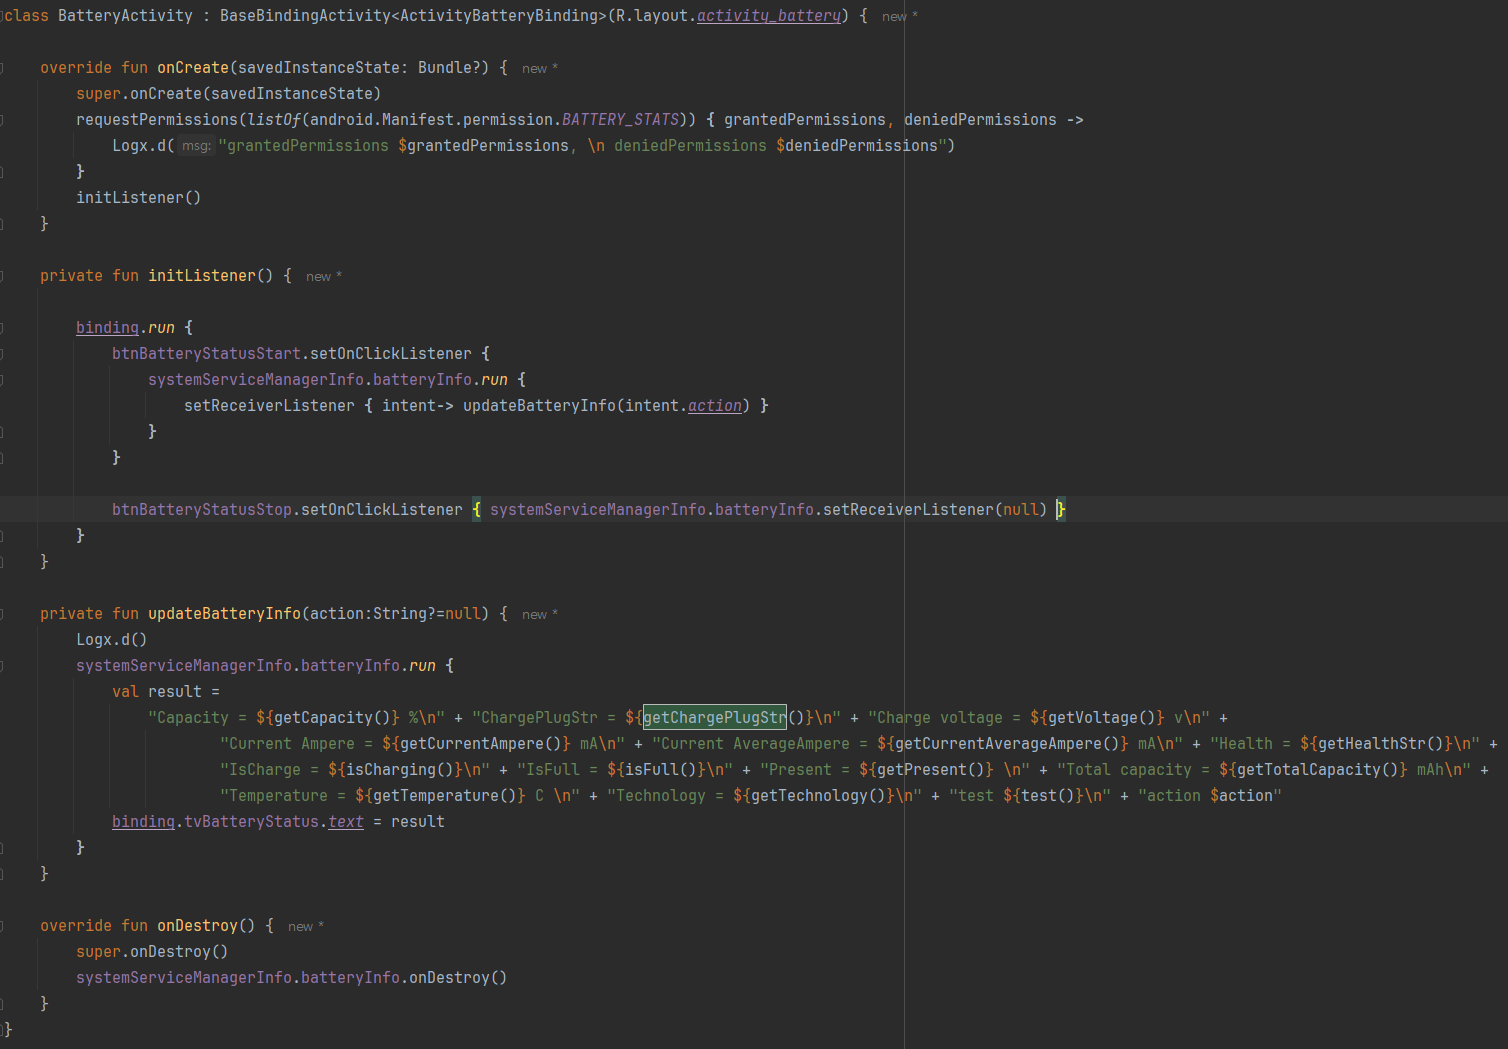
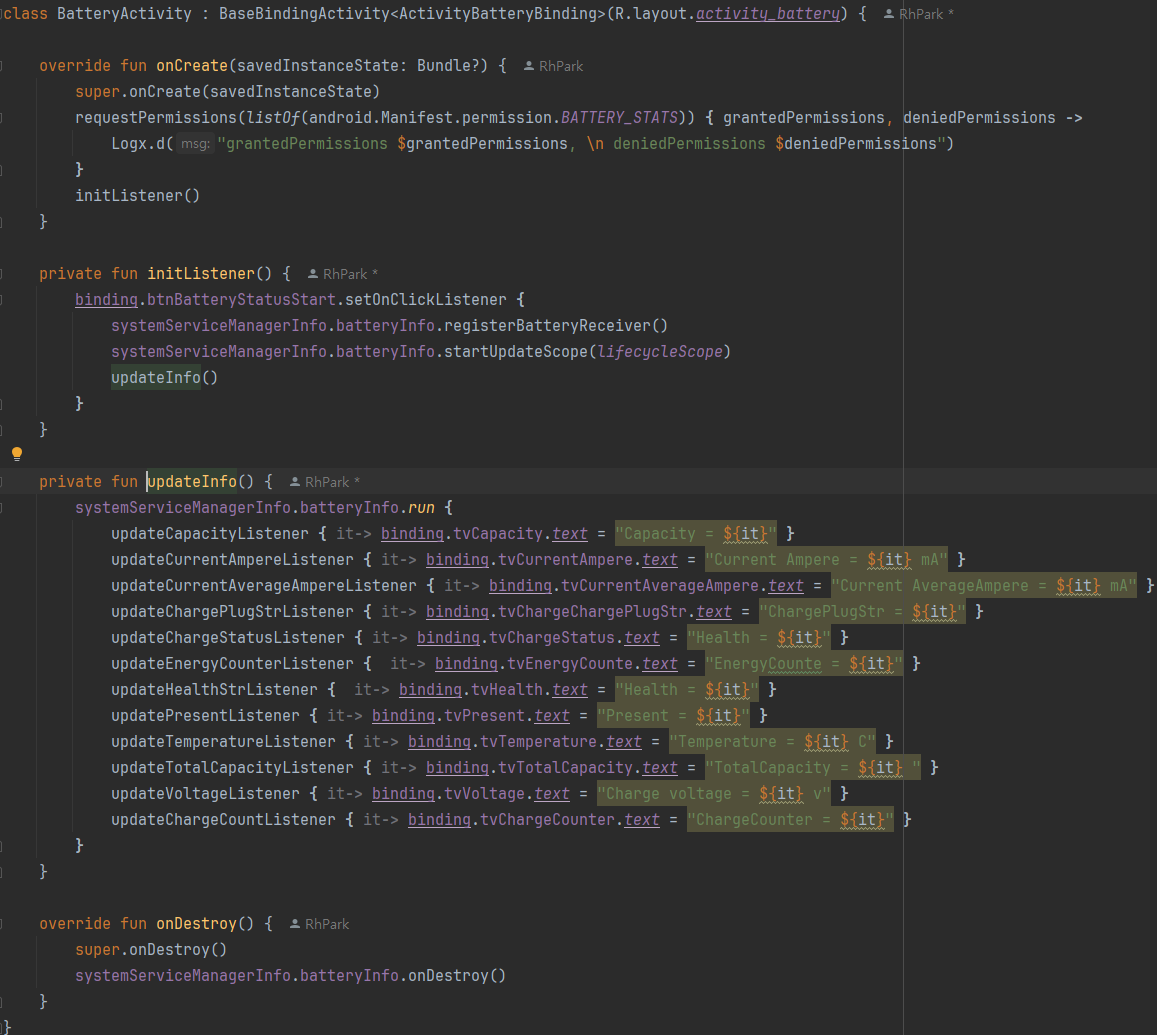
version   "0.5.1" -> "0.5.2"
Bug
 Edit
  1.

 Remove
  1.

New

 Add
  1.BatteryStateInfo의 update...Listener{} 추가

 Edit
  1.

 Remove
  1.

 Remains
  2. WindowManagerController 50%

diff --git a/library/src/main/java/kr/open/rhpark/library/system/service/access/battery/BatteryStateInfo.kt b/library/src/main/java/kr/open/rhpark/library/system/service/access/battery/BatteryStateInfo.kt
@@ -1,4 +1,4 @@
-package kr.open.rhpark.library.system.service.access
+package kr.open.rhpark.library.system.service.access.battery
 
 import android.content.BroadcastReceiver
 import android.content.Context
@@ -8,6 +8,11 @@ import android.content.IntentFilter
 import android.os.BatteryManager
 import android.os.Build
 import androidx.annotation.RequiresApi
+import kotlinx.coroutines.CoroutineScope
+import kotlinx.coroutines.Job
+import kotlinx.coroutines.delay
+import kotlinx.coroutines.isActive
+import kotlinx.coroutines.launch
 import kr.open.rhpark.library.system.service.base.BaseSystemService
 import kr.open.rhpark.library.system.service.access.power.PowerProfile
 import kr.open.rhpark.library.system.service.access.power.PowerProfileVO
@@ -15,6 +20,19 @@ import kr.open.rhpark.library.system.service.access.power.PowerProfileVO
 /**
  * Thisclass provides information about the battery state of an Android device.
  * BatteryStateInfo 클래스는 Android 기기의 배터리 상태 정보를 제공.
+ *
+ * It is recommended to call destroy() upon complete shutdown.
+ * 완전 종료 시 destroy()를 호출하는 것을 권장.
+ *
+ * to use update..Listener() method , you must update periodically to obtain a more accurate value.
+ * update..Listener()를 사용하기 위해선 반드시 주기적으로 업데이트를 해야 조금 더 정확 한 값을 가져 올 수 있다.
+ *
+ * ex)
+ * 1. startUpdate(coroutineScope: CoroutineScope) 사용
+ * 2. startUpdate()
+ *  . (Call startUpdate() periodically from outside)
+ *  . 외부에서 주기적으로 startUpdate() 호출
+ *
  *
  * @param context The application context
  * @param context 애플리케이션 컨텍스트.
@@ -29,46 +47,126 @@ public class BatteryStateInfo(
 
     private val UPDATE_BATTERY = "RHPARK_BATTERY_STATE_UPDATE"
 
-    private var batteryReceiverListener: ((intent: Intent) -> Unit)? = null
-
     private val batteryBroadcastReceiver = object : BroadcastReceiver() {
+
         override fun onReceive(context: Context, intent: Intent) {
+
             batteryStatus = intent
-            batteryReceiverListener?.let { it(intent) }
+            updateBatteryInfo()
         }
     }
 
-    private var batteryStatus: Intent? =
-        context.registerReceiver(batteryBroadcastReceiver, IntentFilter().apply {
-            addAction(Intent.ACTION_BATTERY_CHANGED)
-            addAction(Intent.ACTION_BATTERY_LOW)
-            addAction(Intent.ACTION_BATTERY_OKAY)
-            addAction(Intent.ACTION_POWER_CONNECTED)
-            addAction(Intent.ACTION_POWER_DISCONNECTED)
-            addAction(Intent.ACTION_POWER_USAGE_SUMMARY)
-            addAction(UPDATE_BATTERY)
-        }, RECEIVER_EXPORTED)
+    private val intentFilter = IntentFilter().apply {
+        addAction(Intent.ACTION_BATTERY_CHANGED)
+        addAction(Intent.ACTION_BATTERY_LOW)
+        addAction(Intent.ACTION_BATTERY_OKAY)
+        addAction(Intent.ACTION_POWER_CONNECTED)
+        addAction(Intent.ACTION_POWER_DISCONNECTED)
+        addAction(Intent.ACTION_POWER_USAGE_SUMMARY)
+        addAction(UPDATE_BATTERY)
+    }
+
+    private var batteryStatus: Intent? = null
 
     private val powerProfile: PowerProfile by lazy { PowerProfile(context) }
 
     public val ERROR_VALUE: Int = Integer.MIN_VALUE
 
+    private val capacity = BatteryUpdate<Int>(getCapacity())
+    public fun updateCapacityListener(updateListener: (res: Int) -> Unit) { capacity.updateListener(updateListener) }
 
-    /**
-     * Sets a listener to receive battery state updates.
-     * 배터리 상태 업데이트를 수신할리스너를 설정.
-     *
-     * @param listener The listener to receive battery state updates.
-     * @param listener 배터리 상태 업데이트를 수신할 리스너.
-     */
-    public fun setReceiverListener(listener: ((intent: Intent) -> Unit)? = null) {
-        this.batteryReceiverListener = listener
-        batteryStatus?.let {
-            if(listener != null) {
-                it.action = UPDATE_BATTERY
-//            it.putExtra(UPDATE_BATTERY,UPDATE_BATTERY)
-                context.sendBroadcast(it)
+    private val currentAmpere = BatteryUpdate<Int>(getCurrentAmpere())
+    public fun updateCurrentAmpereListener(updateListener: (res: Int) -> Unit) { currentAmpere.updateListener(updateListener) }
+
+    private val currentAverageAmpere = BatteryUpdate<Int>(getCurrentAverageAmpere())
+    public fun updateCurrentAverageAmpereListener(updateListener: (res: Int) -> Unit) { currentAverageAmpere.updateListener(updateListener) }
+
+    private val chargePlug = BatteryUpdate<Int>(getChargePlug())
+    public fun updateChargePlugListener(updateListener: (res: Int) -> Unit) { chargePlug.updateListener(updateListener) }
+
+    private val chargePlugStr = BatteryUpdate<String>(getChargePlugStr())
+    public fun updateChargePlugStrListener(updateListener: (res: String?) -> Unit) { chargePlugStr.updateListener(updateListener) }
+
+    private val chargeStatus = BatteryUpdate<Int>(getChargeStatus())
+    public fun updateChargeStatusListener(updateListener: (res: Int) -> Unit) { chargeStatus.updateListener(updateListener) }
+
+    private val chargeCount = BatteryUpdate<Int>(getChargeCounter())
+    public fun updateChargeCountListener(updateListener: (res: Int) -> Unit) { chargeCount.updateListener(updateListener) }
+
+    private val energyCounter = BatteryUpdate<Long>(getEnergyCounter())
+    public fun updateEnergyCounterListener(updateListener: (res: Long) -> Unit) { energyCounter.updateListener(updateListener) }
+
+    private val health = BatteryUpdate<Int>(getHealth())
+    public fun updateHealthListener(updateListener: (res: Int) -> Unit) { health.updateListener(updateListener) }
+
+    private val healthStr = BatteryUpdate<String>(getHealthStr())
+    public fun updateHealthStrListener(updateListener: (res: String?) -> Unit) { healthStr.updateListener(updateListener) }
+
+    private val present = BatteryUpdate<Boolean>(getPresent())
+    public fun updatePresentListener(updateListener: (res: Boolean) -> Unit) { present.updateListener(updateListener) }
+
+    private val totalCapacity = BatteryUpdate<Double>(getTotalCapacity())
+    public fun updateTotalCapacityListener(updateListener: (res: Double) -> Unit) { totalCapacity.updateListener(updateListener) }
+
+    private val temperature = BatteryUpdate<Double>(getTemperature())
+    public fun updateTemperatureListener(updateListener: (res: Double) -> Unit) { temperature.updateListener(updateListener) }
+
+    private val voltage = BatteryUpdate<Double>(getVoltage())
+    public fun updateVoltageListener(updateListener: (res: Double) -> Unit) { voltage.updateListener(updateListener) }
+
+    public fun registerBatteryReceiver() {
+        unRegisterReceiver()
+        if(Build.VERSION.SDK_INT >= Build.VERSION_CODES.TIRAMISU) {
+            batteryStatus = context.registerReceiver(batteryBroadcastReceiver, intentFilter, RECEIVER_EXPORTED)
+        } else {
+            batteryStatus = context.registerReceiver(batteryBroadcastReceiver, intentFilter)
+        }
+    }
+
+
+    public var scope: Job? = null
+    public fun startUpdateScope(coroutineScope: CoroutineScope) {
+        scope = coroutineScope.launch {
+
+            while(isActive) {
+                sendBroadcast()
+                delay(1000)
             }
+            stopUpdateScope()
+        }
+    }
+
+    public fun startUpdate() {
+        sendBroadcast()
+    }
+
+    public fun stopUpdateScope() {
+        scope?.cancel()
+        scope = null
+    }
+
+    private fun updateBatteryInfo() {
+
+        capacity.update(getCapacity())
+        chargeCount.update(getChargeCounter())
+        chargePlug.update(getChargePlug())
+        chargePlugStr.update(getChargePlugStr())
+        chargeStatus.update(getChargeStatus())
+        currentAmpere.update(getCurrentAmpere())
+        currentAverageAmpere.update(getCurrentAverageAmpere())
+        energyCounter.update(getEnergyCounter())
+        health.update(getHealth())
+        healthStr.update(getHealthStr())
+        present.update(getPresent())
+        temperature.update(getTemperature())
+        totalCapacity.update(getTotalCapacity())
+        voltage.update(getVoltage())
+    }
+
+    private fun sendBroadcast() {
+        batteryStatus?.let {
+            it.action = UPDATE_BATTERY
+            context.sendBroadcast(it)
         }
     }
 
@@ -78,6 +176,7 @@ public class BatteryStateInfo(
         } catch (e:Exception) {
             e.printStackTrace()
         }
+        batteryStatus = null
     }
 
     /**
@@ -148,7 +247,7 @@ public class BatteryStateInfo(
      * Battery capacity in microampere-hours, as an integer.
      * 배터리 용량을 마이크로암페어시 단위로 반환
      *
-     * @return The battery capacity in microampere-hours..
+     * @return The battery capacity in microampere-hours.
      * @return 배터리 용량 (마이크로암페어시).
      */
     public fun getChargeCounter(): Int = batteryManager.getIntProperty(BatteryManager.BATTERY_PROPERTY_CHARGE_COUNTER)
@@ -179,11 +278,10 @@ public class BatteryStateInfo(
     /**
      * BatteryChargingPlugType
      * return BatteryManager
-     *  BATTERY_PLUGGED_USB
-     *  BATTERY_PLUGGED_AC
-     *  BATTERY_PLUGGED_DOCK
-     *  BATTERY_PLUGGED_WIRELESS
-     *  BATTERY_PLUGGED_ANY
+     * @see BatteryManager.BATTERY_PLUGGED_USB
+     * @see BatteryManager.BATTERY_PLUGGED_AC
+     * @see BatteryManager.BATTERY_PLUGGED_DOCK
+     * @see BatteryManager.BATTERY_PLUGGED_WIRELESS
      * )
      * errorValue(-999)
      */
@@ -214,7 +312,7 @@ public class BatteryStateInfo(
     /**
      * boolean indicating whether a battery is present.
      */
-    public fun getPresent(): Boolean? = batteryStatus?.getBooleanExtra(BatteryManager.EXTRA_PRESENT, false)
+    public fun getPresent(): Boolean = batteryStatus?.getBooleanExtra(BatteryManager.EXTRA_PRESENT, false)?: false
 
 
     public val STR_BATTERY_HELTH_GOOD: String = "GOOD"
@@ -270,10 +368,12 @@ public class BatteryStateInfo(
      * return (ex 4000.0)
      * error is null
      */
-    public fun getTotalCapacity(): Any? = powerProfile.getAveragePower(PowerProfileVO.POWER_BATTERY_CAPACITY)
+    public fun getTotalCapacity(): Double =
+        powerProfile.getAveragePower(PowerProfileVO.POWER_BATTERY_CAPACITY) as Double
 
     public override fun onDestroy() {
         super.onDestroy()
+        stopUpdateScope()
         unRegisterReceiver()
     }
 }

diff --git a/app/src/main/java/kr/open/rhpark/app/activity/battery/BatteryActivity.kt b/app/src/main/java/kr/open/rhpark/app/activity/battery/BatteryActivity.kt
@@ -1,6 +1,7 @@
 package kr.open.rhpark.app.activity.battery
 
 import android.os.Bundle
+import androidx.lifecycle.lifecycleScope
 import kr.open.rhpark.app.R
 import kr.open.rhpark.app.databinding.ActivityBatteryBinding
 import kr.open.rhpark.library.debug.logcat.Logx
@@ -17,27 +18,27 @@ class BatteryActivity : BaseBindingActivity<ActivityBatteryBinding>(R.layout.act
     }
 
     private fun initListener() {
-
-        binding.run {
-            btnBatteryStatusStart.setOnClickListener {
-                systemServiceManagerInfo.batteryInfo.run {
-                    setReceiverListener { intent-> updateBatteryInfo(intent.action) }
-                }
-            }
-
-            btnBatteryStatusStop.setOnClickListener { systemServiceManagerInfo.batteryInfo.setReceiverListener(null) }
+        binding.btnBatteryStatusStart.setOnClickListener {
+            systemServiceManagerInfo.batteryInfo.registerBatteryReceiver()
+            systemServiceManagerInfo.batteryInfo.startUpdateScope(lifecycleScope)
+            updateInfo()
         }
     }
 
-    private fun updateBatteryInfo(action:String?=null) {
-        Logx.d()
+    private fun updateInfo() {
         systemServiceManagerInfo.batteryInfo.run {
-            val result =
-                "Capacity = ${getCapacity()} %\n" + "ChargePlugStr = ${getChargePlugStr()}\n" + "Charge voltage = ${getVoltage()} v\n" +
-                        "Current Ampere = ${getCurrentAmpere()} mA\n" + "Current AverageAmpere = ${getCurrentAverageAmpere()} mA\n" + "Health = ${getHealthStr()}\n" +
-                        "IsCharge = ${isCharging()}\n" + "IsFull = ${isFull()}\n" + "Present = ${getPresent()} \n" + "Total capacity = ${getTotalCapacity()} mAh\n" +
-                        "Temperature = ${getTemperature()} C \n" + "Technology = ${getTechnology()}\n"
-            binding.tvBatteryStatus.text = result
+            updateCapacityListener { it-> binding.tvCapacity.text = "Capacity = ${it}" }
+            updateCurrentAmpereListener { it-> binding.tvCurrentAmpere.text = "Current Ampere = ${it} mA" }
+            updateCurrentAverageAmpereListener { it-> binding.tvCurrentAverageAmpere.text = "Current AverageAmpere = ${it} mA" }
+            updateChargePlugStrListener { it-> binding.tvChargeChargePlugStr.text = "ChargePlugStr = ${it}" }
+            updateChargeStatusListener { it-> binding.tvChargeStatus.text = "Health = ${it}" }
+            updateEnergyCounterListener {  it-> binding.tvEnergyCounte.text = "EnergyCounte = ${it}" }
+            updateHealthStrListener {  it-> binding.tvHealth.text = "Health = ${it}" }
+            updatePresentListener { it-> binding.tvPresent.text = "Present = ${it}" }
+            updateTemperatureListener { it-> binding.tvTemperature.text = "Temperature = ${it} C" }
+            updateTotalCapacityListener { it-> binding.tvTotalCapacity.text = "TotalCapacity = ${it} " }
+            updateVoltageListener { it-> binding.tvVoltage.text = "Charge voltage = ${it} v" }
+            updateChargeCountListener { it-> binding.tvChargeCounter.text = "ChargeCounter = ${it}" }
         }
     }
 

diff --git a/library/src/main/java/kr/open/rhpark/library/ui/activity/RootActivity.kt b/library/src/main/java/kr/open/rhpark/library/ui/activity/RootActivity.kt
@@ -90,8 +90,9 @@ public abstract class RootActivity : AppCompatActivity() {
             if(it.isRequestPermissionSystemAlertWindow()) {
                 requestPermissionAlertWindowLauncher.launch(it.requestPermissionAlertWindow(packageName))
             }
-            if(it.getRemainRequestPermissionList().isNotEmpty()) {
-                ActivityCompat.requestPermissions(this, it.getRemainRequestPermissionList(), PermissionCheck.PERMISSION_REQUEST_CODE)
+            val remainRequestPermissions = it.getRemainRequestPermissionList()
+            if(remainRequestPermissions.isNotEmpty()) {
+                ActivityCompat.requestPermissions(this, remainRequestPermissions, PermissionCheck.PERMISSION_REQUEST_CODE)
             }
         }
     }

diff --git a/library/src/main/java/kr/open/rhpark/library/system/service/access/battery/BatteryUpdate.kt b/library/src/main/java/kr/open/rhpark/library/system/service/access/battery/BatteryUpdate.kt
@@ -1,0 +1,19 @@
+package kr.open.rhpark.library.system.service.access.battery
+
+
+public class BatteryUpdate<TYPE>(private var typeOrigin: TYPE) {
+
+    private var updateListener: ((res: TYPE) -> Unit)? = null
+
+    public fun update(typeNew: TYPE) {
+        if(typeOrigin != typeNew) {
+            updateListener?.let { it(typeNew) }
+        }
+        typeOrigin = typeNew
+    }
+
+    public fun updateListener(updateListener: ((res: TYPE) -> Unit)? = null) {
+        this.updateListener = updateListener
+        updateListener?.let { it(typeOrigin) }
+    }
+}

diff --git a/library/src/main/java/kr/open/rhpark/library/system/service/SystemServiceManager.kt b/library/src/main/java/kr/open/rhpark/library/system/service/SystemServiceManager.kt
@@ -11,7 +11,7 @@ import android.telephony.euicc.EuiccManager
 import android.view.WindowManager
 import android.view.inputmethod.InputMethodManager
 import androidx.appcompat.app.AppCompatActivity
-import kr.open.rhpark.library.system.service.access.BatteryStateInfo
+import kr.open.rhpark.library.system.service.access.battery.BatteryStateInfo
 import kr.open.rhpark.library.system.service.access.DisplayInfo
 import kr.open.rhpark.library.system.service.controller.SoftKeyboardController
 import kr.open.rhpark.library.system.service.controller.VibratorController

diff --git a/library/src/main/java/kr/open/rhpark/library/system/service/access/power/PowerProfileVO.kt b/library/src/main/java/kr/open/rhpark/library/system/service/access/power/PowerProfileVO.kt
@@ -27,6 +27,7 @@ public enum class PowerProfileVO(public val  res: String) {
     //    @UnsupportedAppUsage
     POWER_CPU_ACTIVE("cpu.active"),
 
+    POWER_SCREEN_FULL("screen.full"),
     /**
      * Power consumption when WiFi driver is scanning for networks.
      */
